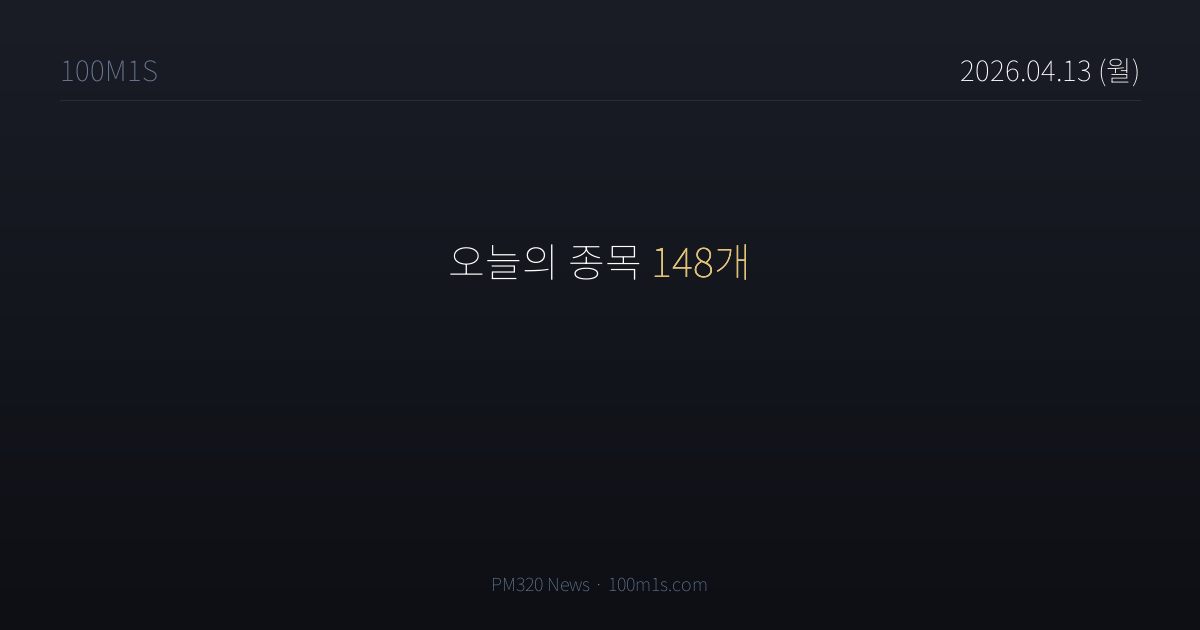
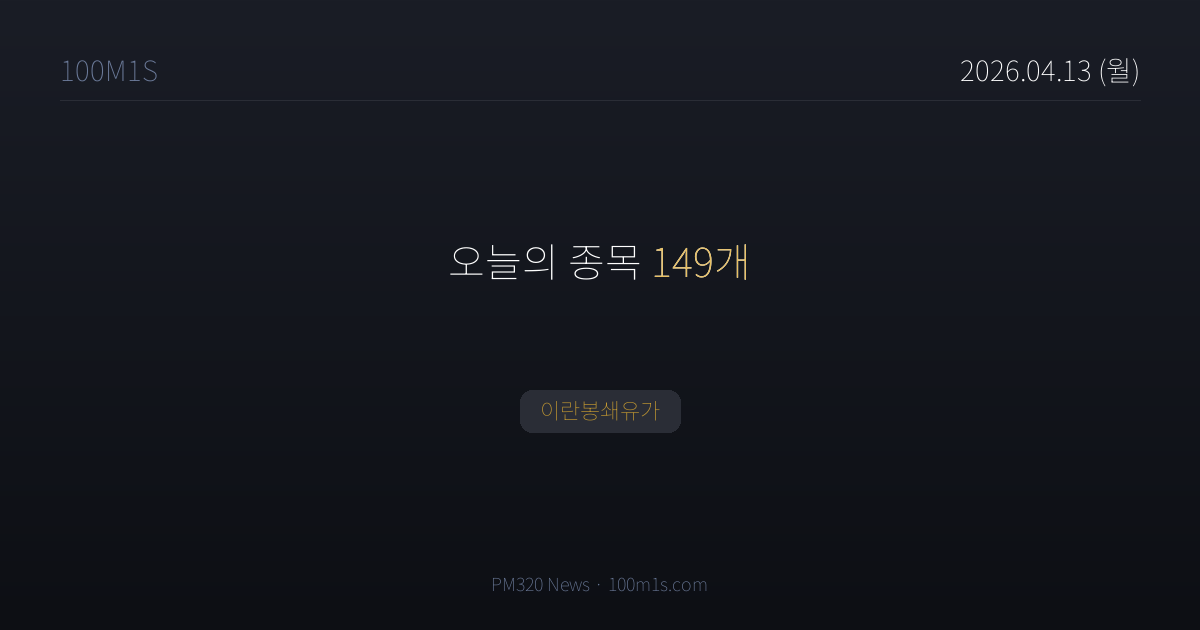
chore(news): 2026-04-13T11:19 pipeline

Changed region(s): [[0.4317, 0.6032, 0.5858, 0.6937], [0.555, 0.3921, 0.6167, 0.4222]]

diff --git a/news/2026-04-13.html b/news/2026-04-13.html
@@ -3,8 +3,8 @@
 <head>
 <meta charset="UTF-8">
 <title>4월 13일 (월) 뉴스 — 100M1S</title>
-<meta property="og:title" content="4월 13일 (월) · 종목 148개">
-<meta property="og:description" content="뉴스 요약">
+<meta property="og:title" content="4월 13일 (월) · 종목 149개">
+<meta property="og:description" content="이란봉쇄유가">
 <meta property="og:image" content="https://100m1s.com/og/2026-04-13.png">
 <meta property="og:image:width" content="1200">
 <meta property="og:image:height" content="630">
